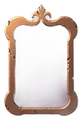
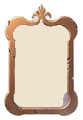
Le chiffre du niveau repasse en sombre sur la carte ivoire
L interieur de la carte de niveau, transparent jusqu ici, est desormais
un ivoire chaud : le blanc os y etait illisible. Les trois chiffres
jumeaux (hub, profil, avant-partie) passent en brun sombre #241a0a, le
brun des boutons dores, et perdent leur ombre portee -- une ombre
sombre sous un texte sombre sur fond clair salissait le rendu. Rien
d autre ne change : tailles, Cinzel, chiffres tabulaires et min-width
2ch intacts, l image telle que deposee. Verifie au navigateur : hub et
profil rendent rgb(36, 26, 10) sans ombre, le pseudo garde son blanc
os, la regle de l avant-partie est identique aux deux autres.

diff --git a/emprise-app/src/App.jsx b/emprise-app/src/App.jsx
@@ -6341,10 +6341,12 @@ const APP_STYLES = `
            rien ne bouge au passage du niveau 10. */
         .hub-niveau-nombre {
           font-family: 'Cinzel', serif; font-size: 20px; font-weight: 700;
-          /* Blanc os (01/09), jumeau du profil et de l avant-partie. */
-          color: var(--bone); line-height: 1; font-variant-numeric: tabular-nums;
+          /* Brun sombre (02/09), jumeau du profil et de l avant-partie :
+             l interieur de la carte est devenu ivoire, le blanc os y etait
+             illisible. Sans ombre -- une ombre sombre sous un texte sombre
+             sur fond clair salit le rendu. */
+          color: #241a0a; line-height: 1; font-variant-numeric: tabular-nums;
           min-width: 2ch; text-align: center;
-          text-shadow: 0 1px 3px rgba(0,0,0,0.85);
         }
         /* La meme carte, en grand, au profil -- a gauche de la ligne de niveau. */
         /* 40 x 55 (53 x 72 avant) : depuis le rognage de l'image, l'art
@@ -6360,11 +6362,11 @@ const APP_STYLES = `
         }
         .profil-niveau-nombre {
           font-family: 'Cinzel', serif; font-size: 16px; font-weight: 700;
-          /* Blanc os (01/09), comme le pseudo sur les bannieres -- l ombre
-             portee garde la lisibilite sur le panneau central de la carte. */
-          color: var(--bone); line-height: 1; font-variant-numeric: tabular-nums;
+          /* Brun sombre (02/09), jumeau du hub et de l avant-partie :
+             l interieur de la carte est devenu ivoire, et l ivoire n a
+             besoin d aucune ombre pour la lisibilite. */
+          color: #241a0a; line-height: 1; font-variant-numeric: tabular-nums;
           min-width: 2ch; text-align: center;
-          text-shadow: 0 1px 4px rgba(0,0,0,0.9);
         }
         /* La carte a gauche, le corps (ligne, jauge, compte) a droite : le corps
            reprend l'ancienne colonne, la barre et ses textes n'ont pas bouge. */
@@ -9382,9 +9384,10 @@ const APP_STYLES = `
         }
         .territoire-niveau-nombre {
           font-family: 'Cinzel', serif; font-size: 11px; font-weight: 700;
-          /* Blanc os (01/09), jumeau du hub et du profil. */
-          color: var(--bone); line-height: 1; font-variant-numeric: tabular-nums;
-          min-width: 2ch; text-align: center; text-shadow: 0 1px 3px rgba(0,0,0,0.85);
+          /* Brun sombre (02/09), jumeau du hub et du profil : l interieur
+             de la carte est devenu ivoire, sans ombre. */
+          color: #241a0a; line-height: 1; font-variant-numeric: tabular-nums;
+          min-width: 2ch; text-align: center;
         }
 
         .reserve-panel { max-width: 330px; }
